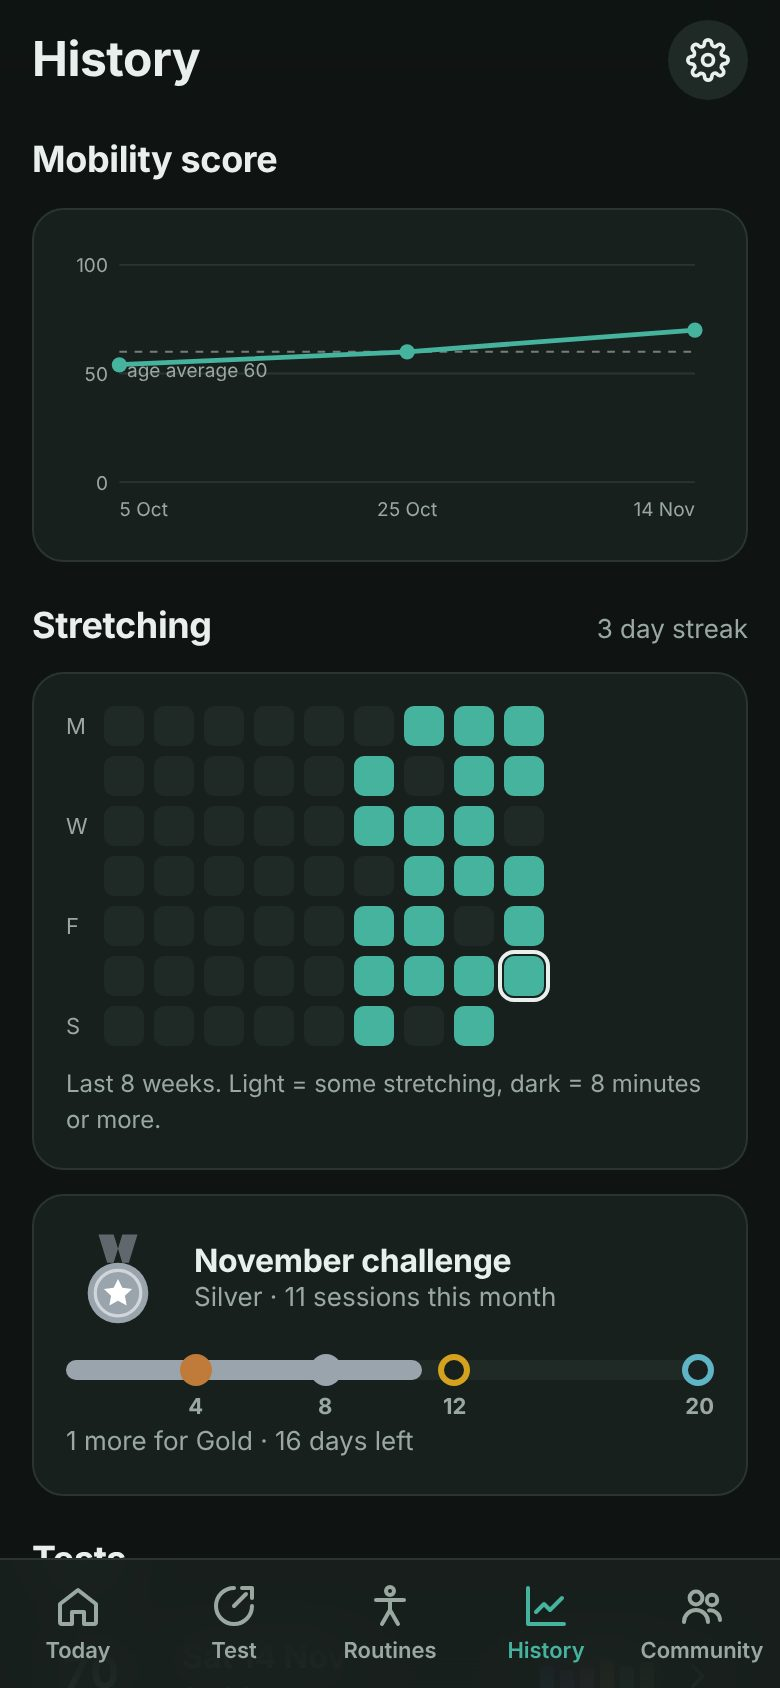
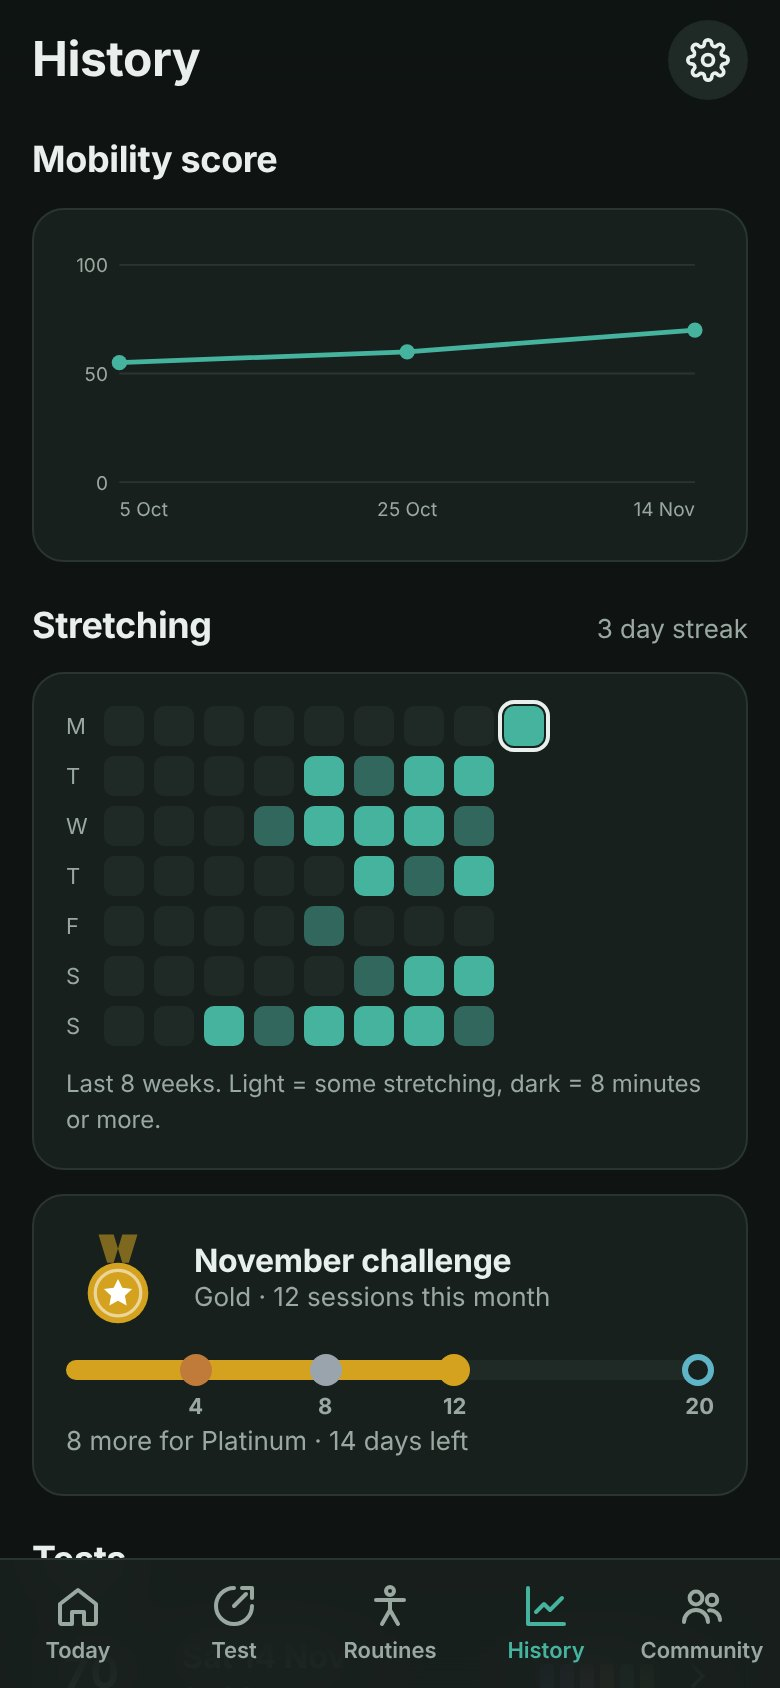
Front page: refresh the Progress phone screen from the current app
Claude-Session: https://claude.ai/code/session_01LbcmbnbV16J8dmj9bBC9JB

diff --git a/index.html b/index.html
@@ -197,7 +197,7 @@
         <figcaption><h3>Today</h3><p>Your score, your tightest zone and the routine picked for you.</p></figcaption>
       </figure>
       <figure class="screen" style="margin:0">
-        <div class="phone"><img src="assets/screen-history.jpg" alt="Movage History screen: mobility score progress chart, stretching calendar and monthly challenge medals" width="780" height="1688" loading="lazy"></div>
+        <div class="phone"><img src="assets/screen-history.jpg?v=2" alt="Movage History screen: mobility score progress chart, 8-week stretching calendar by day of the week and monthly challenge medals" width="780" height="1688" loading="lazy"></div>
         <figcaption><h3>Progress</h3><p>Watch your score climb, fill your calendar and chase this month's medal.</p></figcaption>
       </figure>
       <figure class="screen" style="margin:0">
